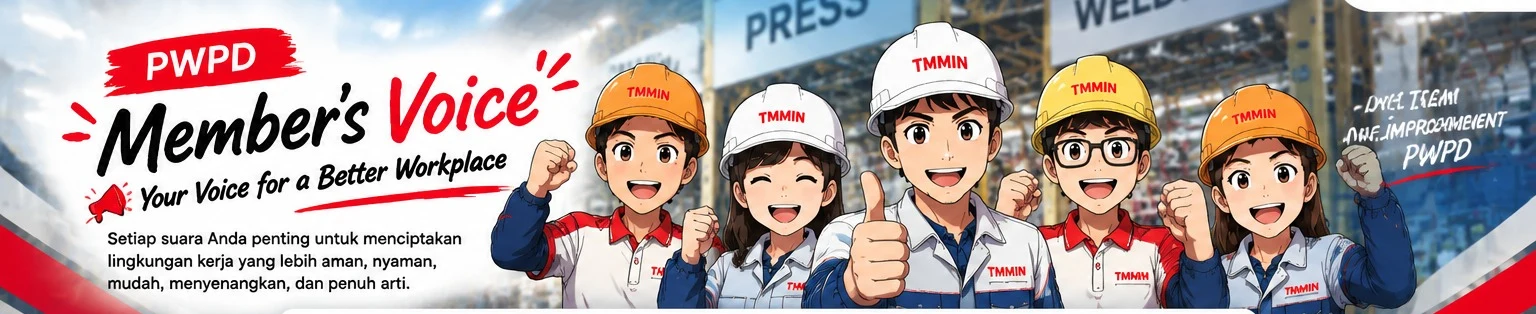
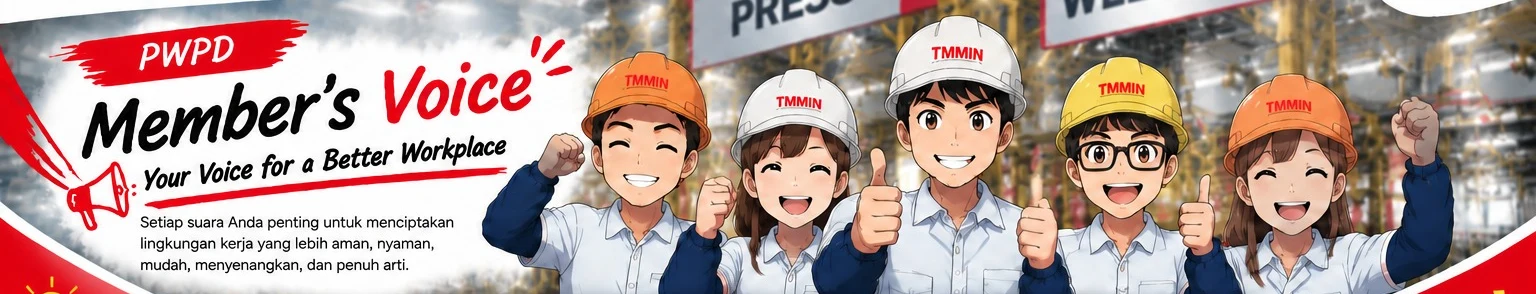
feat: adopt the v2 design for the public page
Seluruh aset dipotong ulang dari mockup v2: logo jadi TOYOTA INDONESIA
lengkap dengan keterangan PT Toyota Motor Manufacturing Indonesia, nama unit
jadi PWPD Sunter, dekorasi sisi berganti pita merah diagonal dengan polaroid
mobil di line produksi, dan pita bawah berganti jalan dengan gedung Toyota
Indonesia.

Pilar sekarang kartu putih yang mengambang menindih pita bawah, sesuai
mockup. Tindihannya dinyatakan -3vw, bukan piksel tetap: pita ikut mengecil
bersama viewport - di 1440px tingginya ~124px tapi di 390px hanya ~34px,
sehingga nilai tetap -46px menelan habis pitanya di ponsel. Ini ketahuan
saat screenshot 390px, bukan saat menulis CSS-nya.

Bar atas di mockup v2 punya potongan diagonal dengan foto pabrik menembus di
kanan. Sengaja tidak ditiru: menirunya berarti memanggang bar itu ke dalam
gambar, dan PWPD Sunter berhenti jadi teks yang bisa diperbaiki dan mengecil
di ponsel. Satu ornamen tidak sebanding dengan itu.

Diverifikasi di 390, 768, dan 1440px, plus halaman admin yang berbagi bar
atas yang sama.

diff --git a/src/app/globals.css b/src/app/globals.css
@@ -74,7 +74,9 @@ a {
 }
 
 .topbar__logo {
-  height: 38px;
+  /* Logo v2 adalah lockup dua baris plus keterangan kecil, jadi lebih tinggi
+     daripada logo TMMIN yang lama. */
+  height: 46px;
   width: auto;
 }
 
@@ -144,7 +146,7 @@ a {
   background-position: top center;
   background-repeat: no-repeat;
   background-size: 100% auto;
-  height: 420px;
+  height: 405px;
   pointer-events: none;
   position: absolute;
   top: 0;
@@ -288,16 +290,34 @@ a {
 
 /* Lima pilar */
 .pillars {
-  background: var(--brand-surface);
+  padding: 0 20px;
+  position: relative;
+  z-index: 1;
 }
 
+/*
+ * Di mockup v2 pilar adalah kartu putih yang mengambang menindih ilustrasi
+ * bawah, bukan pita putih polos. Margin bawah negatif yang menghasilkan
+ * tindihan itu; z-index menjaga kartunya tetap di atas.
+ */
 .pillars__inner {
+  background: var(--brand-surface);
+  border-radius: 16px;
+  box-shadow: 0 6px 20px rgba(16, 24, 40, 0.1);
   display: grid;
   gap: 0;
   grid-template-columns: repeat(5, 1fr);
-  margin: 0 auto;
+  /*
+   * Tindihan dinyatakan relatif terhadap lebar layar, bukan piksel tetap.
+   * Pita bawah ikut mengecil bersama viewport - di 1440px tingginya ~124px,
+   * di 390px hanya ~34px. Nilai tetap -46px akan menelan habis pitanya di
+   * ponsel. 3vw menjaga proporsinya tetap sama di semua lebar.
+   */
+  margin: 0 auto -3vw;
   max-width: 1400px;
-  padding: 18px 20px 10px;
+  padding: 16px 20px;
+  position: relative;
+  z-index: 1;
 }
 
 .pillar {

diff --git a/src/app/layout.tsx b/src/app/layout.tsx
@@ -15,10 +15,10 @@ export default function RootLayout({
         <header className="topbar">
           <div className="topbar__inner">
             {/* eslint-disable-next-line @next/next/no-img-element */}
-            <img className="topbar__logo" src="/brand/logo.webp" alt="Toyota TMMIN" />
+            <img className="topbar__logo" src="/brand/logo.webp" alt="Toyota Indonesia - PT Toyota Motor Manufacturing Indonesia" />
             <span className="topbar__rule" aria-hidden="true" />
             <span className="topbar__unit">
-              <strong>PWPD</strong>
+              <strong>PWPD Sunter</strong>
               <span>Press &amp; Welding Production Division</span>
             </span>
             <span className="topbar__spacer" />
